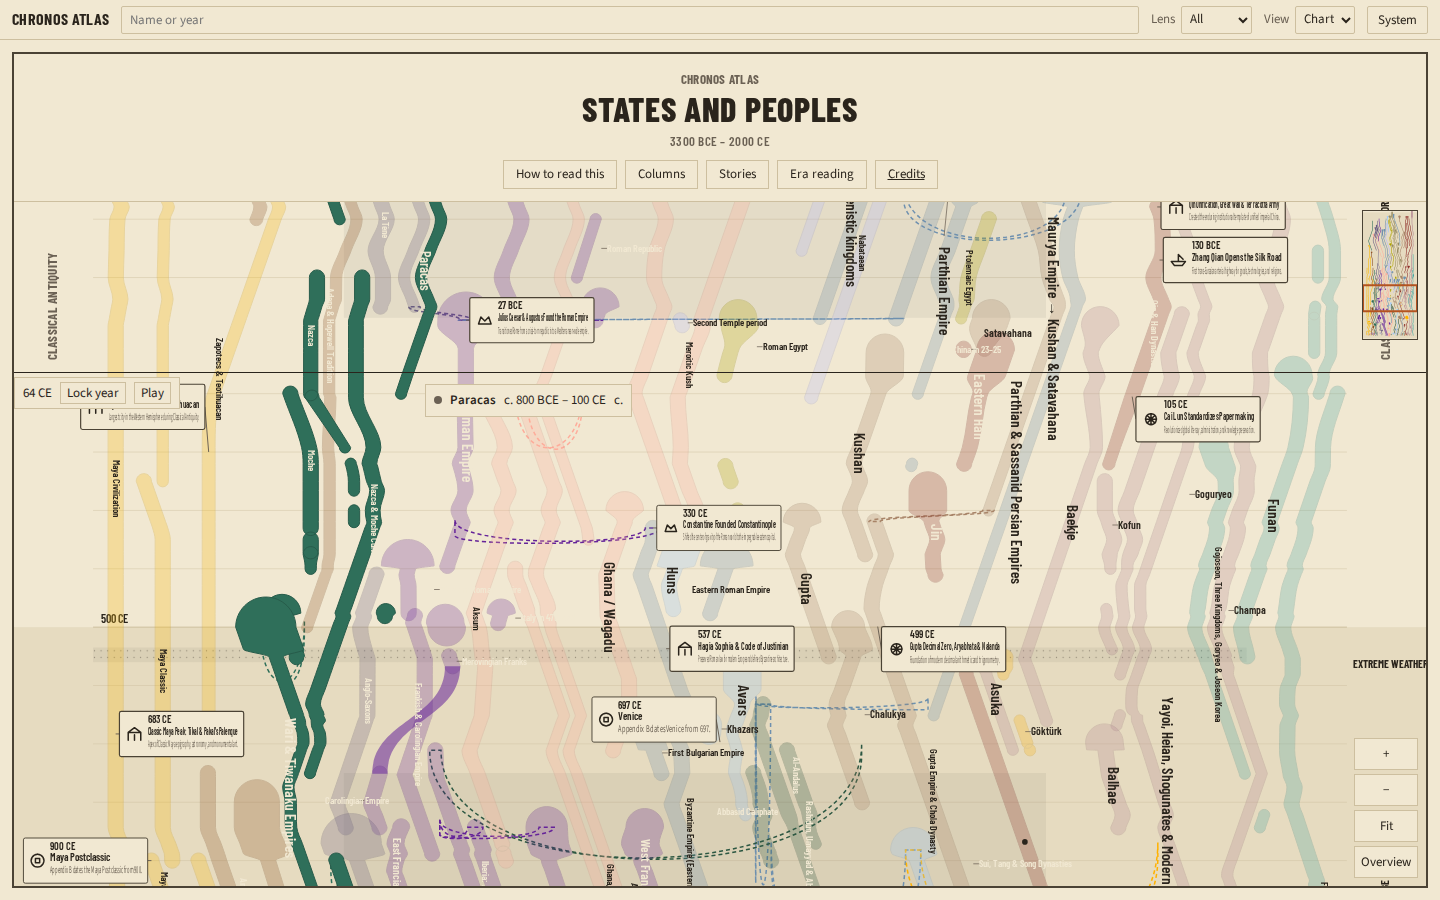
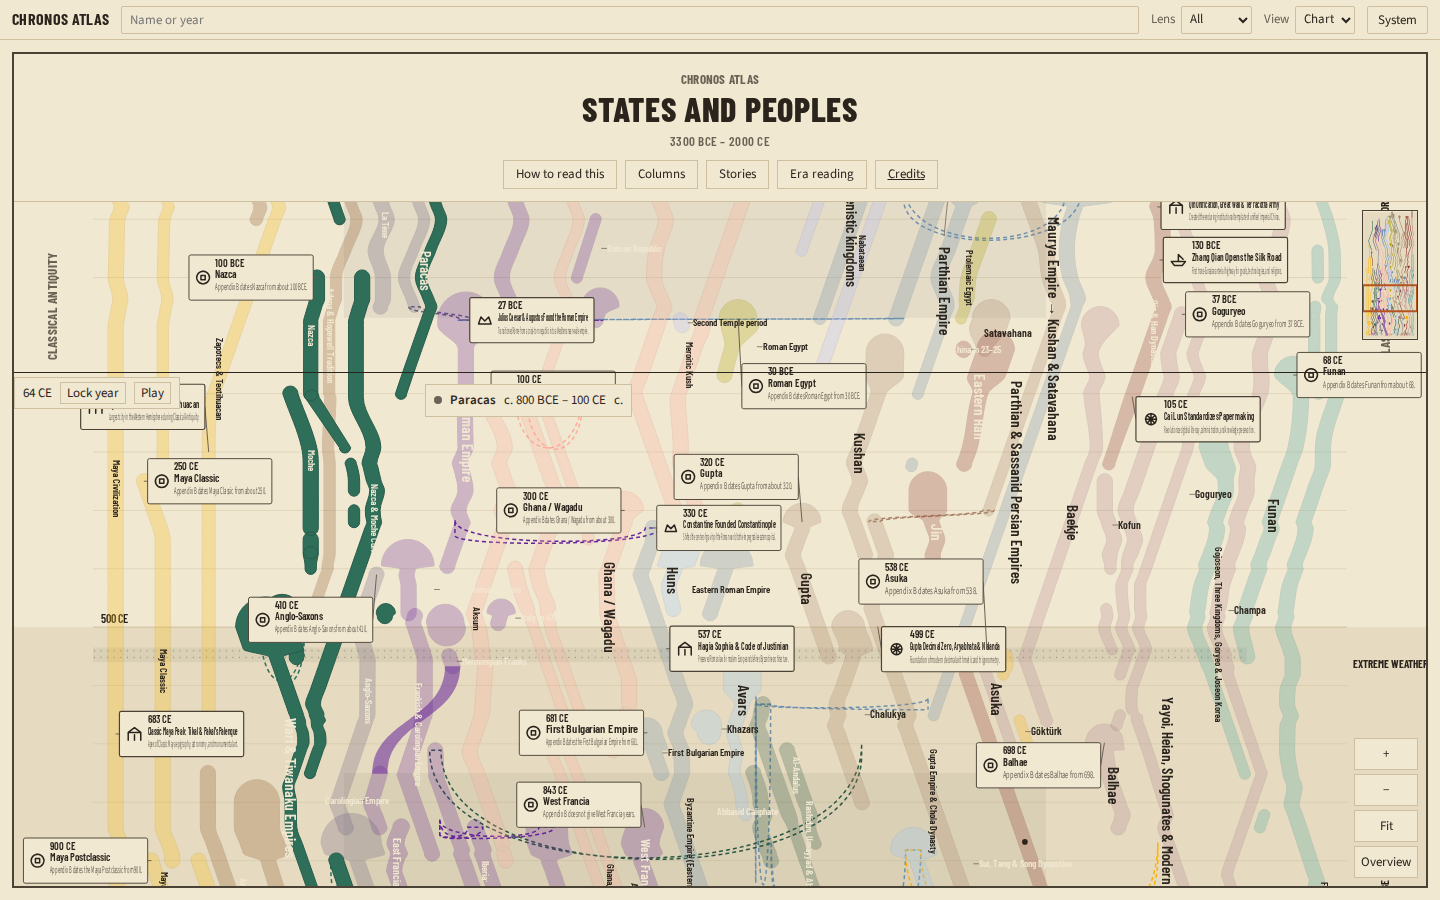
T6.03: retake poster shots after the medieval rows
npm run shots passed on desktop, wide, and mobile. The frame around 1000 shows the West Francia callout and the Yuan callout.

diff --git a/docs/PROGRESS.md b/docs/PROGRESS.md
@@ -149,8 +149,8 @@ Partials: item 1, overview labels about 2px (`docs/shots/p3/desktop-overview.png
 
 ## P6
 
-| Task  | Status | Commit  | Evidence                                                                                   | Minutes | Notes                                                                                                                                                                                                                                                        |
-| ----- | ------ | ------- | ------------------------------------------------------------------------------------------ | ------- | ------------------------------------------------------------------------------------------------------------------------------------------------------------------------------------------------------------------------------------------------------------ |
-| T6.01 | doing  | 17d61f0 | `npm run shots` 3 passed; 1800–2000 count 169; layout overlaps 0; warm runtime over 150 ms | 115     | States Appendix B does not date are in 7d3a50c. The spine and layout report are c37e6ee. Notes, tours, and `docs/reviews/1800-2000.md` are 17d61f0. Two listed homepages loaded and did not state a row year, so nothing is cross-checked.                   |
-| T6.02 | doing  | 1bc27b6 | `npm run shots` 3 passed; 1500–1800 count 108; layout overlaps 0; warm runtime 156 ms      |         | Prose is bab8710. Sweden, Denmark–Norway, and Saadi Morocco are 94d7f8f. Callouts are 7f9c251. Notes are 84c73c5. Tours are 16078bf. The checklist is 1bc27b6. `unesco_gha` loaded and stated volume centuries, not a row year, so nothing is cross-checked. |
-| T6.03 | doing  | 6e2dec6 | 500–1000 count 103; 1000–1500 count 113; layout overlaps 0; warm runtime 165 ms            |         | Prose is b2b8724. The Visigoth year is 006db7b. Callouts are e4f49fa. Notes are 470938a. Tours are 6e2dec6. `chgis` loaded and described a placename database, not a row year, so nothing is cross-checked.                                                  |
+| Task  | Status | Commit  | Evidence                                                                                                  | Minutes | Notes                                                                                                                                                                                                                                                        |
+| ----- | ------ | ------- | --------------------------------------------------------------------------------------------------------- | ------- | ------------------------------------------------------------------------------------------------------------------------------------------------------------------------------------------------------------------------------------------------------------ |
+| T6.01 | doing  | 17d61f0 | `npm run shots` 3 passed; 1800–2000 count 169; layout overlaps 0; warm runtime over 150 ms                | 115     | States Appendix B does not date are in 7d3a50c. The spine and layout report are c37e6ee. Notes, tours, and `docs/reviews/1800-2000.md` are 17d61f0. Two listed homepages loaded and did not state a row year, so nothing is cross-checked.                   |
+| T6.02 | doing  | 1bc27b6 | `npm run shots` 3 passed; 1500–1800 count 108; layout overlaps 0; warm runtime 156 ms                     |         | Prose is bab8710. Sweden, Denmark–Norway, and Saadi Morocco are 94d7f8f. Callouts are 7f9c251. Notes are 84c73c5. Tours are 16078bf. The checklist is 1bc27b6. `unesco_gha` loaded and stated volume centuries, not a row year, so nothing is cross-checked. |
+| T6.03 | doing  | d4e4c19 | `npm run shots` 3 passed; 500–1000 count 103; 1000–1500 count 113; layout overlaps 0; warm runtime 165 ms |         | Prose is b2b8724. The Visigoth year is 006db7b. Callouts are e4f49fa. Notes are 470938a. Tours are 6e2dec6. The checklist is d4e4c19. `chgis` loaded and described a placename database, not a row year, so nothing is cross-checked.                        |

diff --git a/docs/reviews/500-1500.md b/docs/reviews/500-1500.md
@@ -50,7 +50,7 @@ No Western Dark Ages or Medieval Warm Period band was added. Appendix B names th
 
 ## Layout
 
-`docs/reports/layout-latest.json` after this pass: 238 ribbons drawn, 436 polities, 0 overlaps, minimum gap 6, importance-3 labels 82/82, 0 unroutable relations, max drift 3.211. Cold runtime 245 ms, warm 165 ms, over the 150 ms gate. Callouts dropped 174, with 13 markers and 61 placed. The layout engine was not changed. Importance was not raised. Weights were not changed.
+`docs/reports/layout-latest.json` after this pass: 238 ribbons drawn, 436 polities, 0 overlaps, minimum gap 6, importance-3 labels 82/82, 0 unroutable relations, max drift 3.211. Cold runtime 245 ms, warm 165 ms, over the 150 ms gate. Callouts dropped 174, with 13 markers and 61 placed. The layout engine was not changed. Importance was not raised. Weights were not changed. `npm run shots` passed on desktop, wide, and mobile. The frame around 1000 shows the West Francia callout and the Yuan callout.
 
 ## Tours and notes
 
